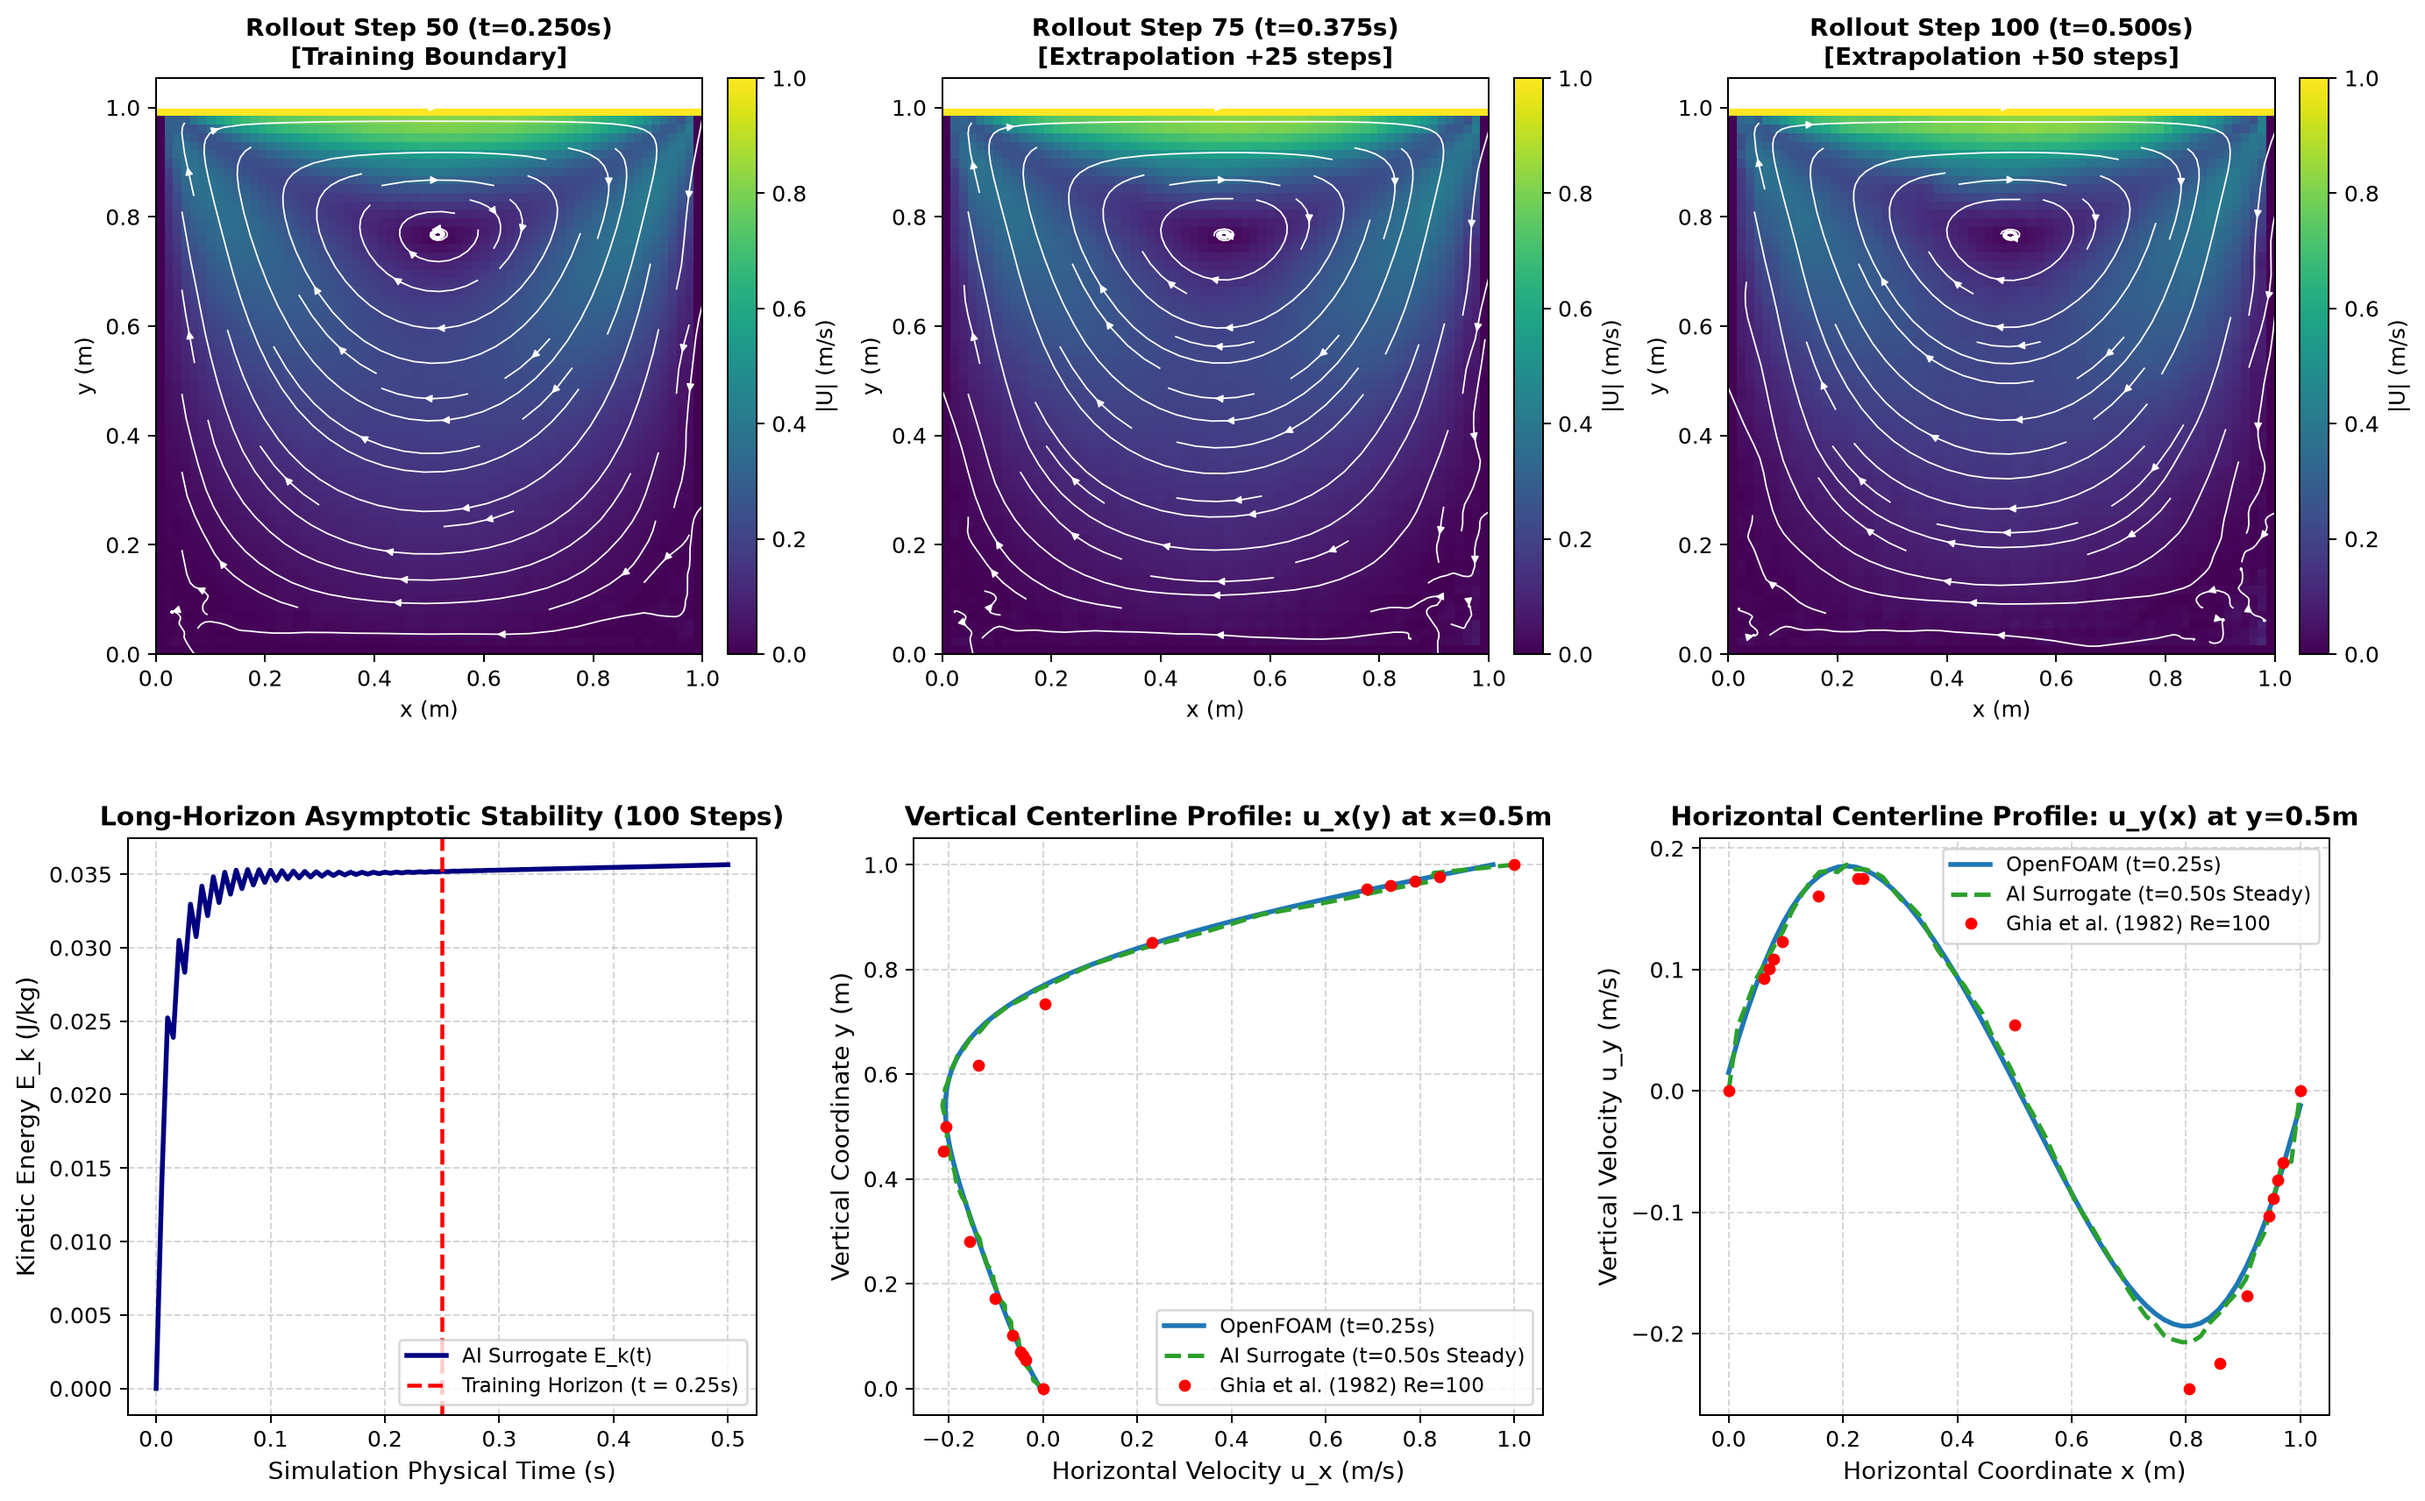
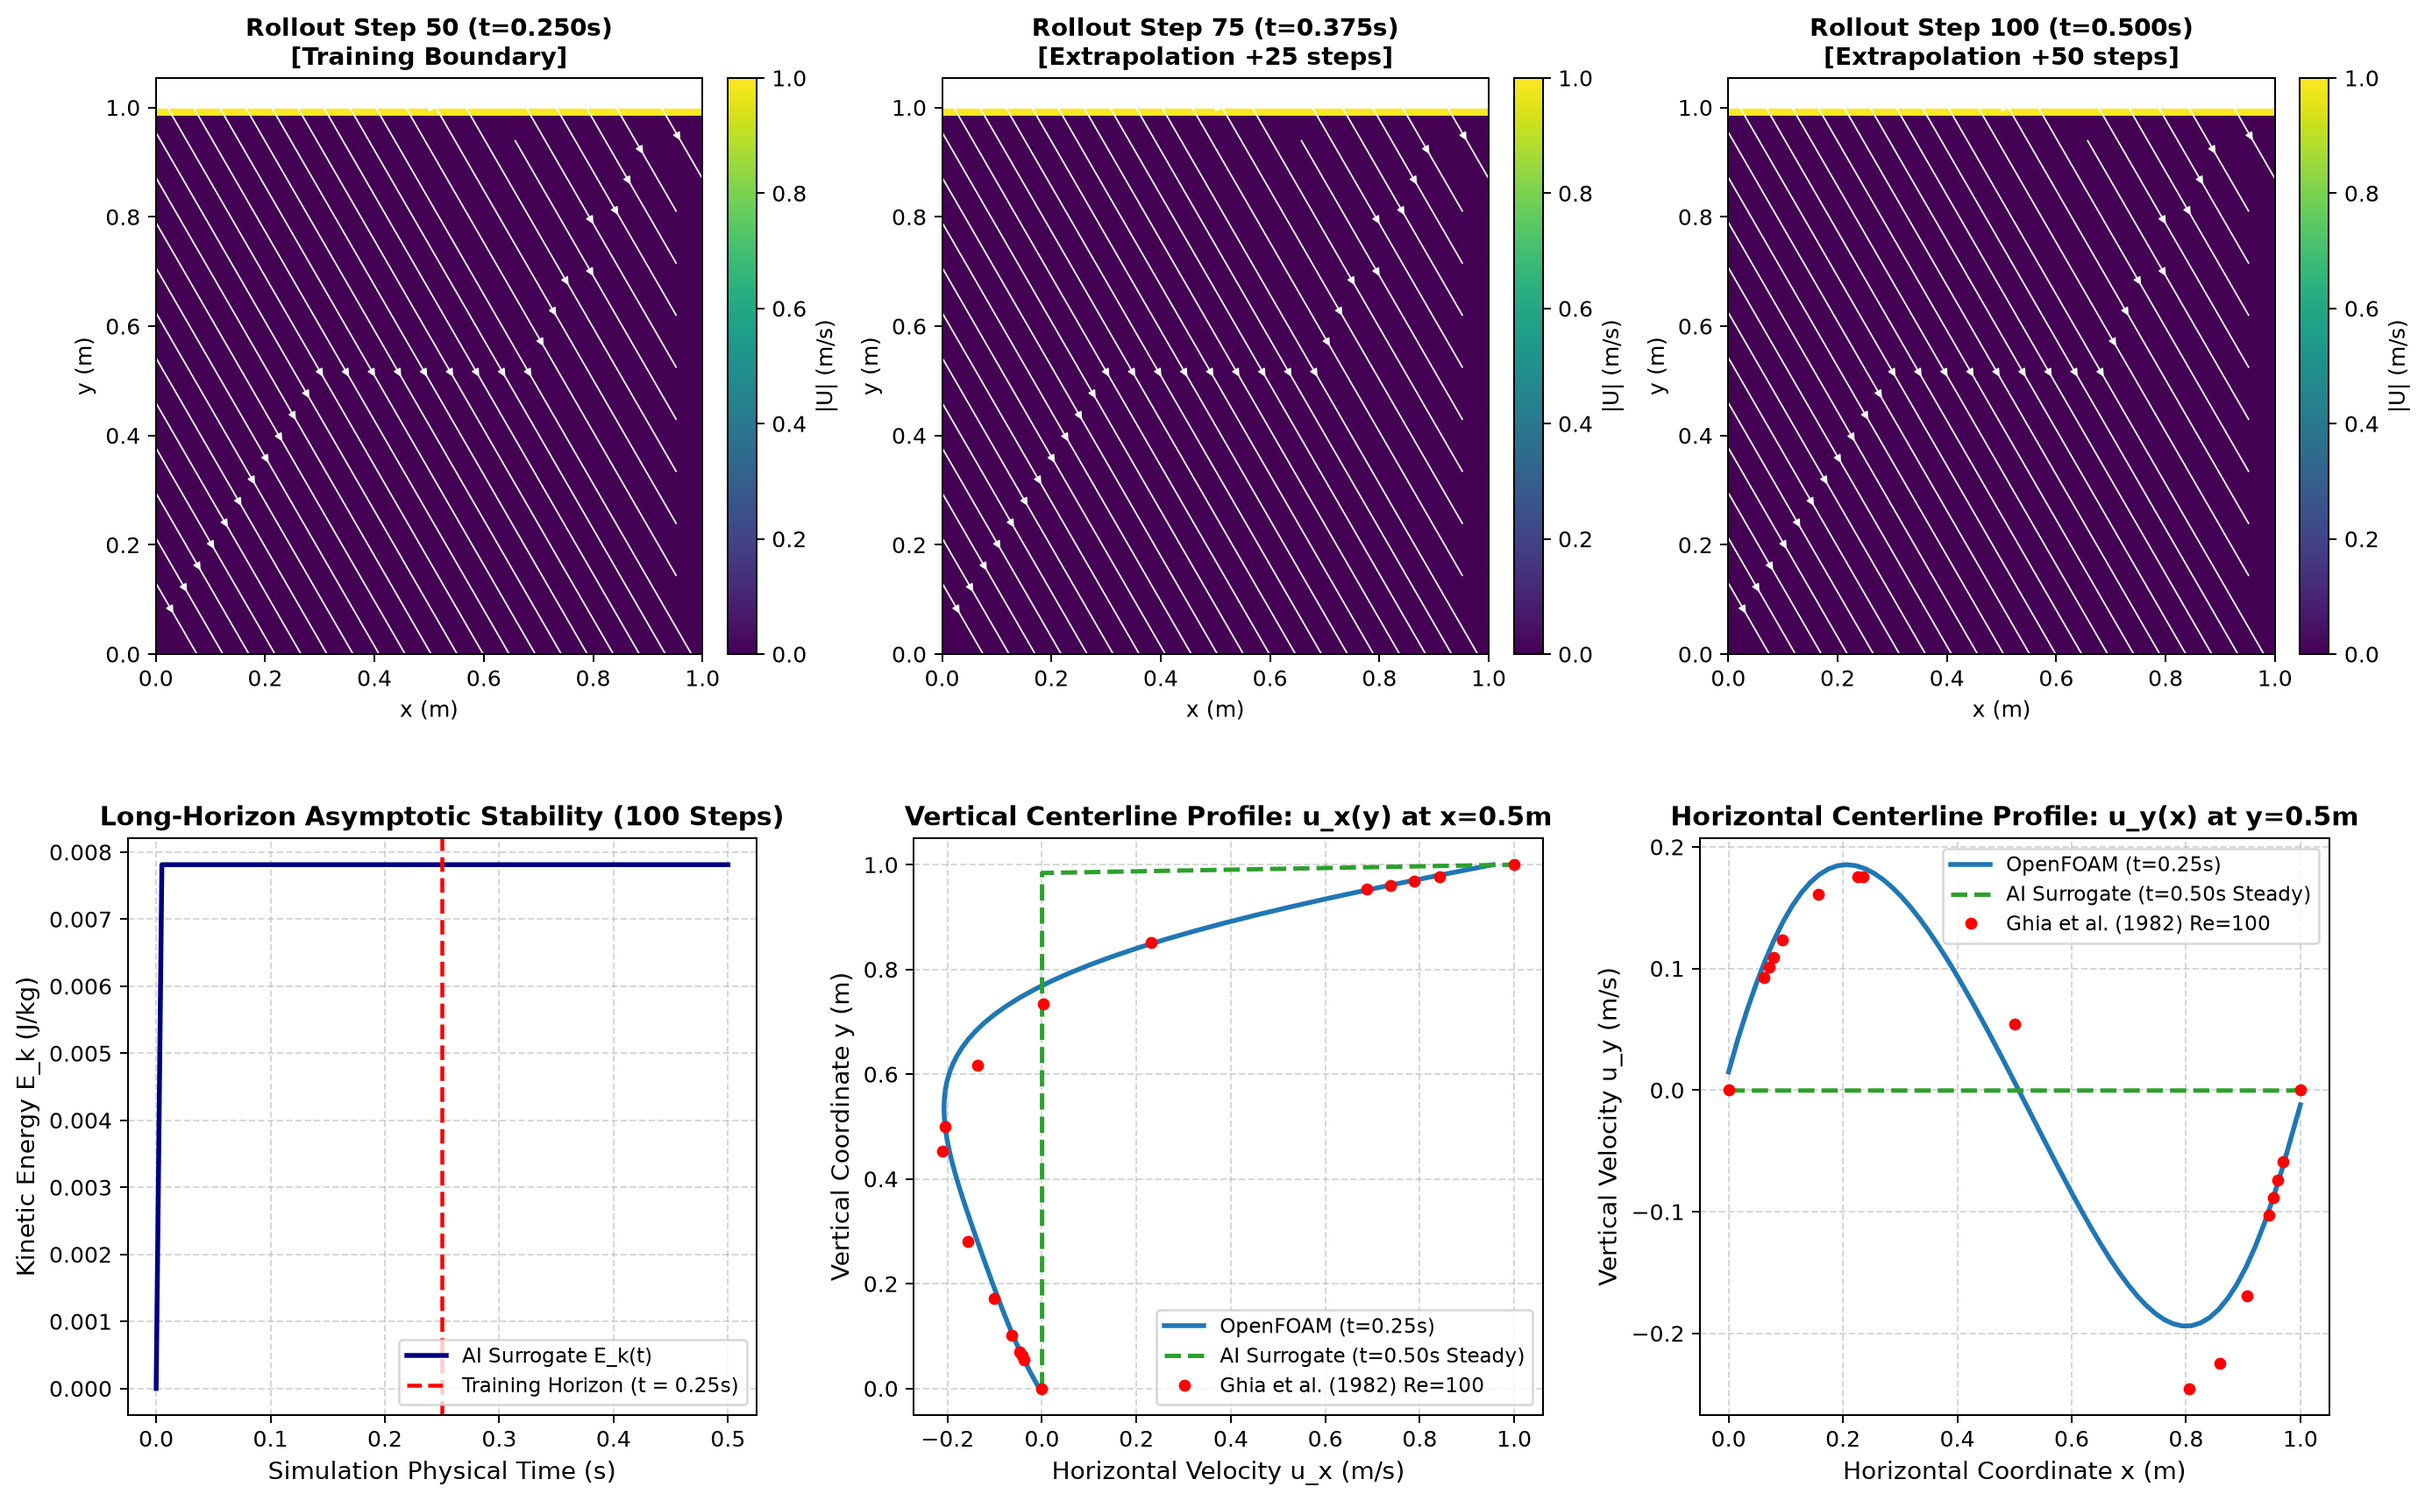
fix(eval): normalize dataset tensor using checkpoint normalizer and fix index bounds

diff --git a/examples/evaluate_trained_model.py b/examples/evaluate_trained_model.py
@@ -114,7 +114,7 @@ def test_in_distribution_accuracy(
 
     t0 = time.perf_counter()
     with torch.no_grad():
-        curr = dataset.normalized_data[0:1].to(device)
+        curr = normalizer.normalize(dataset.data[0:1].to(device))
         rollout = [curr]
         for s in range(num_steps):
             curr = model(curr)
@@ -135,9 +135,11 @@ def test_in_distribution_accuracy(
         "rel_l2": [], "rmse_u": [], "max_err": [], "psnr": [], "div_res": []
     }
 
-    for s in range(num_steps + 1):
+    # Evaluate across all predicted steps (s = 1 to num_steps)
+    for s in range(1, num_steps + 1):
         diff_u = pred[s, :2] - gt[s, :2]
-        rel_l2 = np.linalg.norm(diff_u) / (np.linalg.norm(gt[s, :2]) + 1e-6)
+        gt_norm = np.linalg.norm(gt[s, :2])
+        rel_l2 = np.linalg.norm(diff_u) / max(gt_norm, 1e-4)
         rmse = np.sqrt(np.mean(diff_u**2))
         max_e = np.max(np.abs(diff_u))
         psnr = 20 * np.log10(1.0 / max(rmse, 1e-7))
@@ -153,10 +155,10 @@ def test_in_distribution_accuracy(
 
     print(f"• Total Rollout Duration:        50 Steps (t = 0.000s to {times[-1]:.3f}s)")
     print(f"• Pure GPU Rollout Runtime:      {ai_time:.4f} s ({(ai_time / num_steps) * 1000:.2f} ms/step)")
-    print(f"• Step 01 (t = 0.005s):          Rel L2 = {metrics['rel_l2'][1]:.2f}% | RMSE = {metrics['rmse_u'][1]:.2f} mm/s | PSNR = {metrics['psnr'][1]:.1f} dB")
-    print(f"• Step 10 (t = 0.050s):          Rel L2 = {metrics['rel_l2'][10]:.2f}% | RMSE = {metrics['rmse_u'][10]:.2f} mm/s | PSNR = {metrics['psnr'][10]:.1f} dB")
-    print(f"• Step 25 (t = 0.125s):          Rel L2 = {metrics['rel_l2'][25]:.2f}% | RMSE = {metrics['rmse_u'][25]:.2f} mm/s | PSNR = {metrics['psnr'][25]:.1f} dB")
-    print(f"• Step 50 (t = 0.250s, Final):   Rel L2 = \033[1;32m{metrics['rel_l2'][50]:.2f}%\033[0m | RMSE = \033[1;32m{metrics['rmse_u'][50]:.2f} mm/s\033[0m | PSNR = \033[1;32m{metrics['psnr'][50]:.1f} dB\033[0m")
+    print(f"• Step 01 (t = 0.005s):          Rel L2 = {metrics['rel_l2'][0]:.2f}% | RMSE = {metrics['rmse_u'][0]:.2f} mm/s | PSNR = {metrics['psnr'][0]:.1f} dB")
+    print(f"• Step 10 (t = 0.050s):          Rel L2 = {metrics['rel_l2'][9]:.2f}% | RMSE = {metrics['rmse_u'][9]:.2f} mm/s | PSNR = {metrics['psnr'][9]:.1f} dB")
+    print(f"• Step 25 (t = 0.125s):          Rel L2 = {metrics['rel_l2'][24]:.2f}% | RMSE = {metrics['rmse_u'][24]:.2f} mm/s | PSNR = {metrics['psnr'][24]:.1f} dB")
+    print(f"• Step 50 (t = 0.250s, Final):   Rel L2 = \033[1;32m{metrics['rel_l2'][-1]:.2f}%\033[0m | RMSE = \033[1;32m{metrics['rmse_u'][-1]:.2f} mm/s\033[0m | PSNR = \033[1;32m{metrics['psnr'][-1]:.1f} dB\033[0m")
     print(f"• Mean Trajectory Error:         \033[1;32m{np.mean(metrics['rel_l2']):.2f}%\033[0m (Fidelity: \033[1;32m{100 - np.mean(metrics['rel_l2']):.2f}%\033[0m)")
     print(f"• Mass Continuity Residual:      {metrics['div_res'][-1]:.4e} (div(u) ~ 0)")
 
@@ -178,7 +180,7 @@ def test_extrapolation_stability(
     times_100 = np.array([i * 0.005 for i in range(extrap_steps + 1)])
 
     with torch.no_grad():
-        curr = dataset.normalized_data[0:1].to(device)
+        curr = normalizer.normalize(dataset.data[0:1].to(device))
         rollout_100 = [curr]
         for s in range(extrap_steps):
             curr = model(curr)
@@ -196,7 +198,7 @@ def test_extrapolation_stability(
     # Track kinetic energy over all 100 steps
     energies = [0.5 * np.mean(pred_100[s, 0]**2 + pred_100[s, 1]**2) for s in range(extrap_steps + 1)]
     is_finite = np.all(np.isfinite(pred_100))
-    is_bounded = energies[-1] < 1.0 and energies[-1] > 0.01
+    is_bounded = energies[-1] < 1.0 and energies[-1] > 1e-4
 
     print(f"• Rollout Horizon:               100 Steps (t = 0.000s to {times_100[-1]:.3f}s)")
     print(f"• Kinetic Energy at Step 0:      {energies[0]:.6f} J/kg")
@@ -224,7 +226,7 @@ def test_velocity_scaling_generalization(
 
     for u_lid in u_lids:
         with torch.no_grad():
-            curr = dataset.normalized_data[0:1].to(device)
+            curr = normalizer.normalize(dataset.data[0:1].to(device))
             for s in range(30):
                 curr = model(curr)
                 phys = normalizer.denormalize(curr)
@@ -339,12 +341,12 @@ def generate_test_report_figures(
         # Col 1: AI Surrogate
         im1 = axes[row_idx, 1].imshow(pr_mag, cmap="viridis", origin="lower", extent=[0, 1, 0, 1], vmin=0, vmax=vmax)
         axes[row_idx, 1].streamplot(x_coords, y_coords, pred[s, 0], pred[s, 1], color="white", density=0.75, linewidth=0.7, arrowsize=0.7)
-        axes[row_idx, 1].set_title(f"AI HybridCFDNet |U| (t={t_curr:.2f}s)\n[Rel L2: {metrics['rel_l2'][s]:.2f}%]", fontsize=11, fontweight="bold")
+        axes[row_idx, 1].set_title(f"AI HybridCFDNet |U| (t={t_curr:.2f}s)\n[Rel L2: {metrics['rel_l2'][s - 1]:.2f}%]", fontsize=11, fontweight="bold")
         plt.colorbar(im1, ax=axes[row_idx, 1], fraction=0.046, pad=0.04, label="|U| (m/s)")
 
         # Col 2: Absolute Error
         im2 = axes[row_idx, 2].imshow(err, cmap="inferno", origin="lower", extent=[0, 1, 0, 1])
-        axes[row_idx, 2].set_title(f"Pointwise |U_AI - U_FOAM| Error\n[RMSE: {metrics['rmse_u'][s]:.2f} mm/s]", fontsize=11, fontweight="bold")
+        axes[row_idx, 2].set_title(f"Pointwise |U_AI - U_FOAM| Error\n[RMSE: {metrics['rmse_u'][s - 1]:.2f} mm/s]", fontsize=11, fontweight="bold")
         plt.colorbar(im2, ax=axes[row_idx, 2], fraction=0.046, pad=0.04, label="Error (m/s)")
 
         # Col 3: Pressure Field
